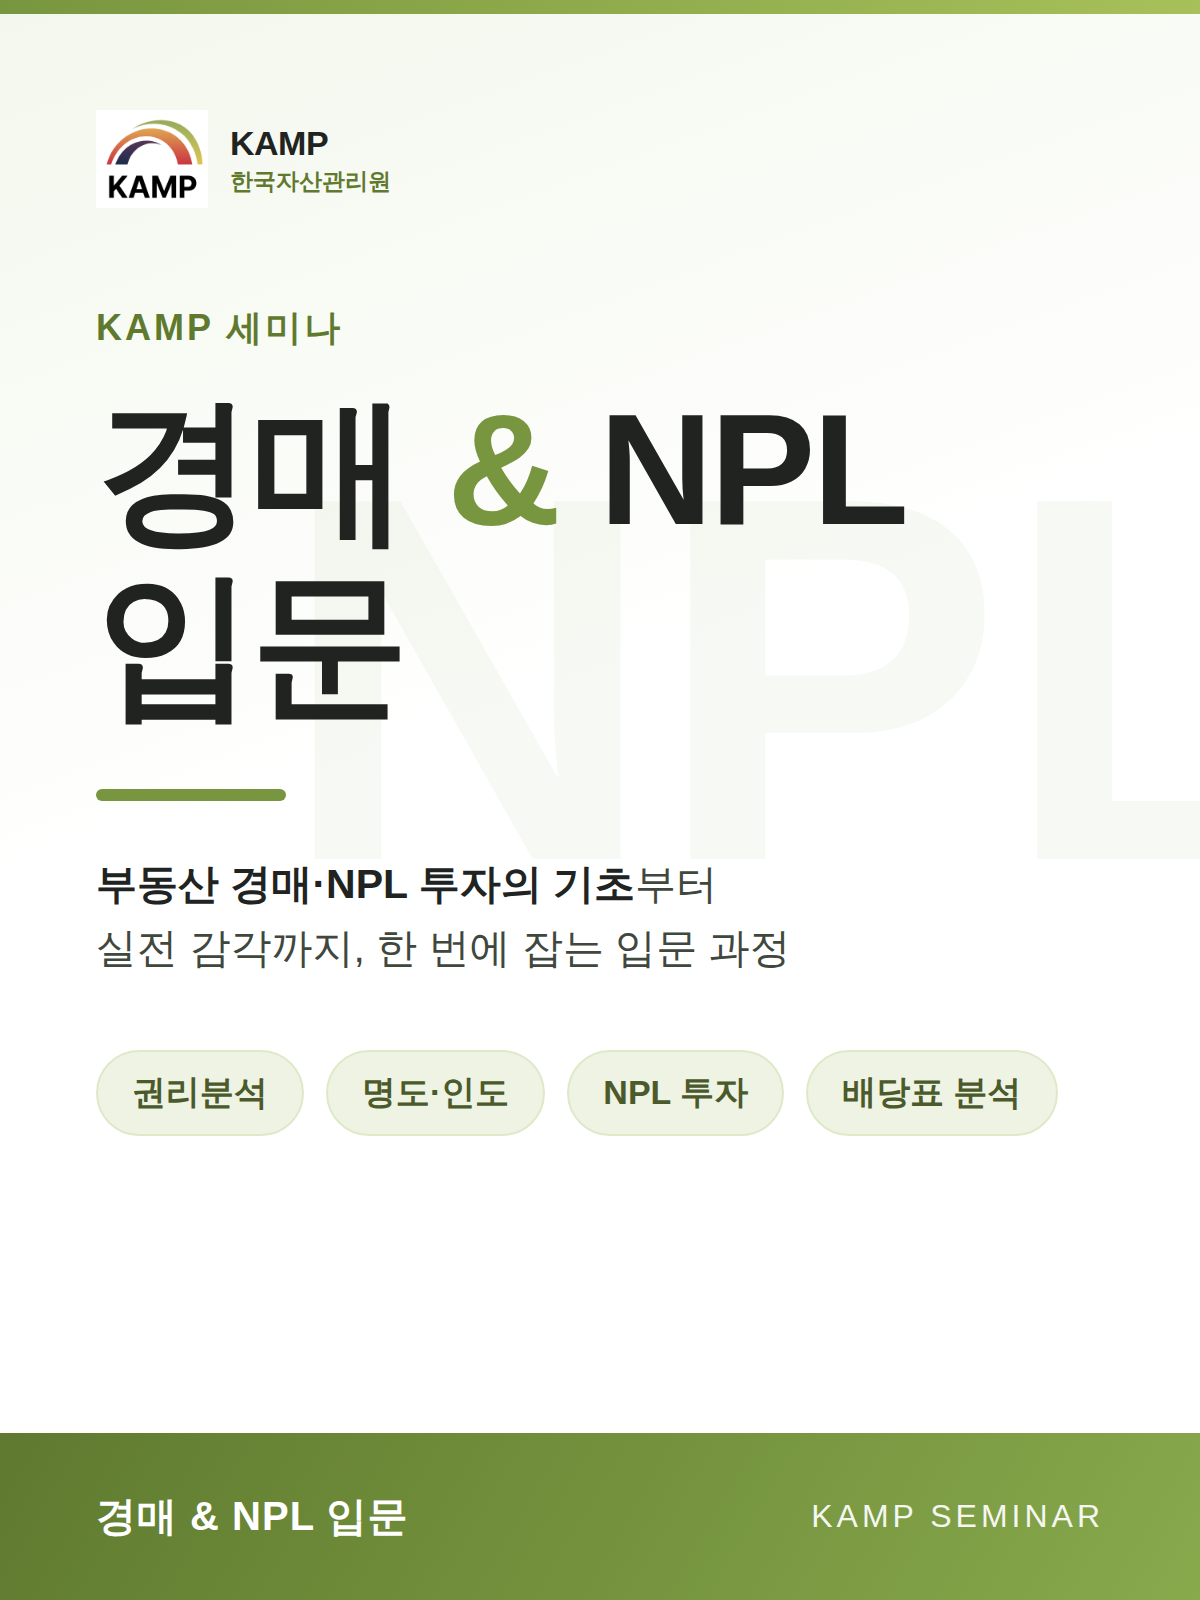
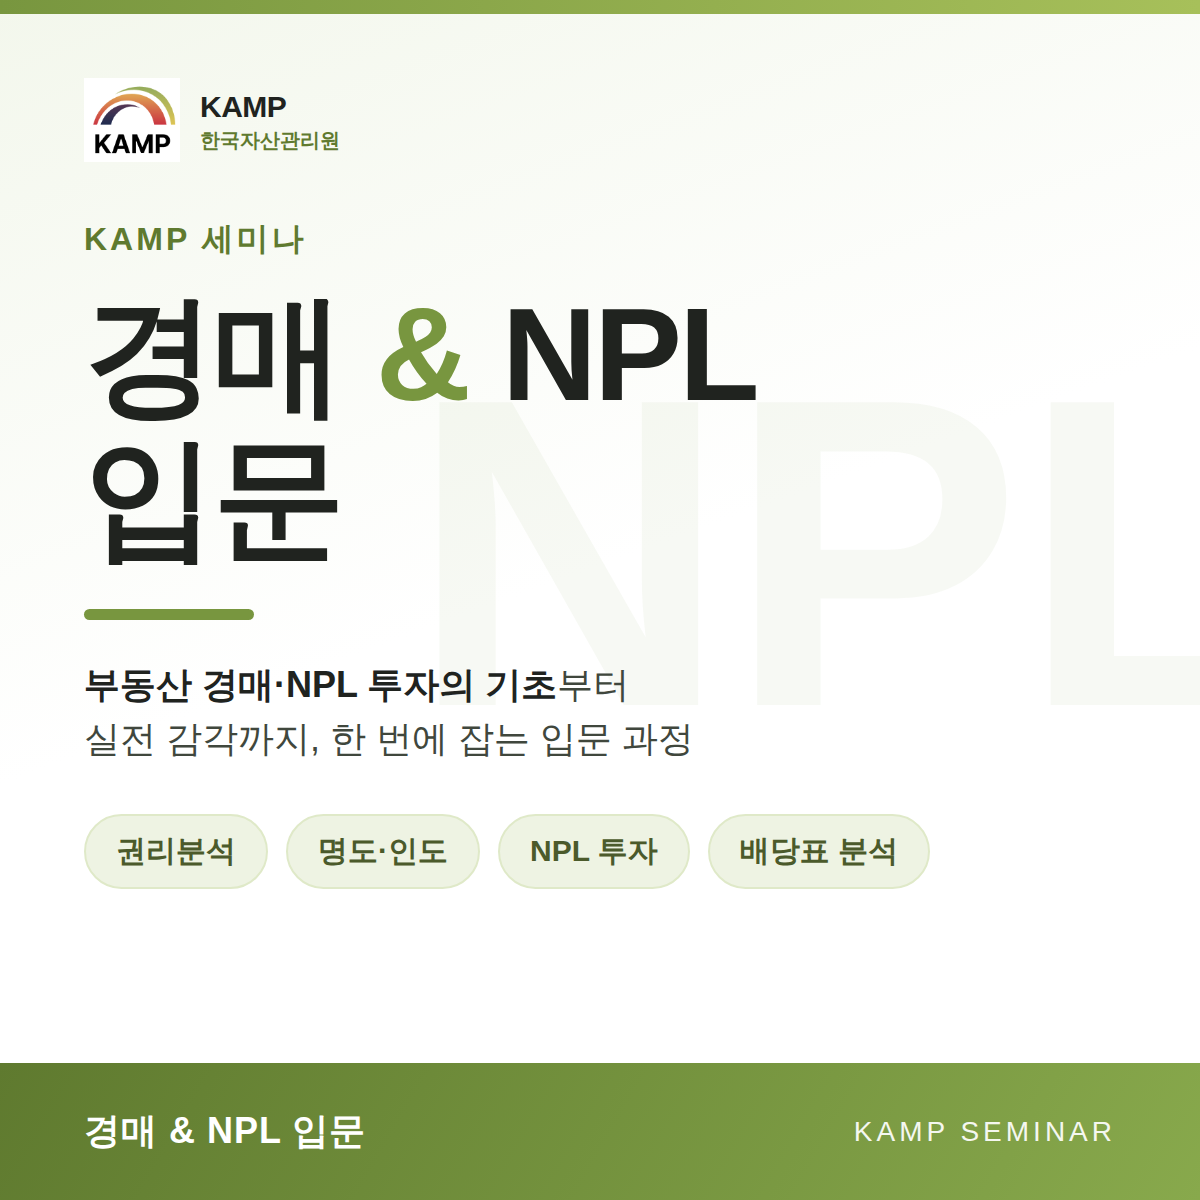
세미나 카드 이미지를 여백 없는 정사각형으로 표시
- .seminar-image 프레임을 3:4 -> 1:1로 변경하고 object-fit을 contain ->
  cover로 바꿔 정사각 이미지 위아래에 생기던 흰 여백 제거
- 새 포스터(seminar-4.png)도 1:1 프레임에 맞게 1200x1200 정사각으로 재제작

diff --git a/css/pages.css b/css/pages.css
@@ -496,21 +496,17 @@
 }
 .seminar-image {
     width: 100%;
-    aspect-ratio: 3 / 4;
-    display: flex;
-    align-items: center;
-    justify-content: center;
+    aspect-ratio: 1 / 1;
     overflow: hidden;
     border-radius: 16px;
     background: #fff;
     box-shadow: 0 15px 40px rgba(0, 0, 0, .12);
 }
 .seminar-image img {
-    max-width: 100%;
-    max-height: 100%;
-    width: auto;
-    height: auto;
-    object-fit: contain;
+    width: 100%;
+    height: 100%;
+    object-fit: cover;
+    display: block;
 }
 .seminar-end {
     cursor: default;
